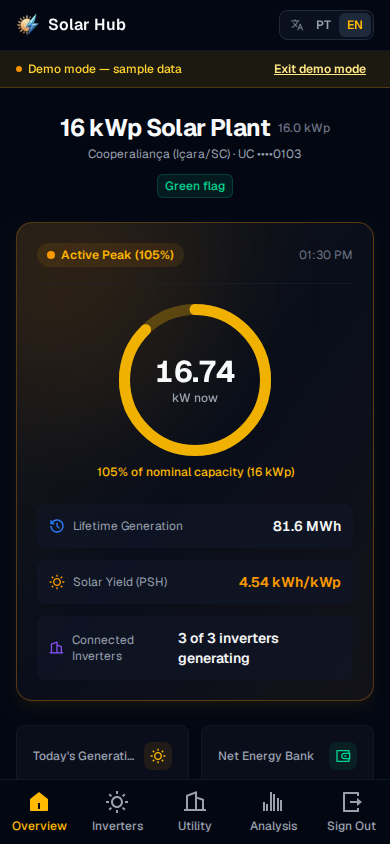
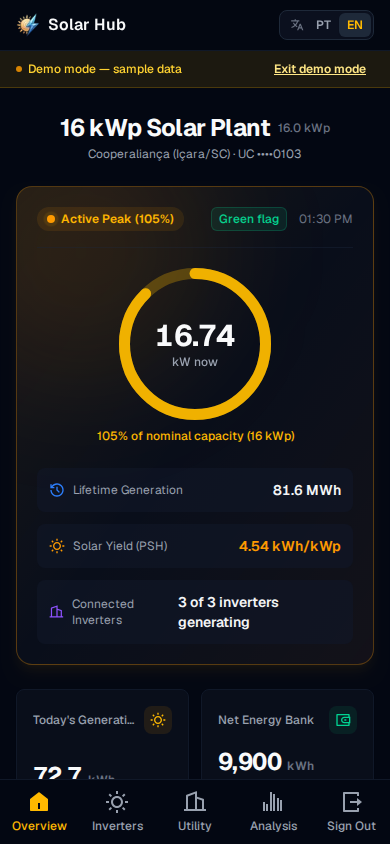
feat(dashboard): show the tariff flag inside the power card (#33)

diff --git a/dashboard/src/app/page.tsx b/dashboard/src/app/page.tsx
@@ -25,6 +25,7 @@ export const dynamic = "force-dynamic";
 
 const STALE_THRESHOLD_MIN = 30;
 
+
 export default async function Home() {
   const [{ t, locale }, ds] = await Promise.all([getServerI18n(), getDataSource()]);
   const [telemetry, utilityData, sunCurve, weatherData] = await Promise.all([
@@ -85,10 +86,6 @@ export default async function Home() {
           <p className="mt-0.5 text-xs text-gray-500 dark:text-gray-400">
             {utilityData?.distribuidora ?? "Cooperaliança"} · UC {maskUcCode(utilityData?.generator_uc)}
           </p>
-        </div>
-
-        <div className="flex items-center gap-2">
-          {bandeira && <Badge variant={tariffFlagVariant(bandeira)}>{translateTariffFlag(bandeira, t)}</Badge>}
         </div>
       </div>
 
@@ -157,15 +154,18 @@ export default async function Home() {
             )}
           </div>
 
-          <span className="text-xs text-gray-400 dark:text-gray-500">
-            {telemetry
-              ? new Date(telemetry.recorded_at).toLocaleTimeString(locale === "pt-BR" ? "pt-BR" : "en-US", {
-                  timeZone: "America/Sao_Paulo",
-                  hour: "2-digit",
-                  minute: "2-digit",
-                })
-              : "—"}
-          </span>
+          <div className="flex items-center gap-3">
+            {bandeira && <Badge variant={tariffFlagVariant(bandeira)}>{translateTariffFlag(bandeira, t)}</Badge>}
+            <span className="text-xs text-gray-400 dark:text-gray-500">
+              {telemetry
+                ? new Date(telemetry.recorded_at).toLocaleTimeString(locale === "pt-BR" ? "pt-BR" : "en-US", {
+                    timeZone: "America/Sao_Paulo",
+                    hour: "2-digit",
+                    minute: "2-digit",
+                  })
+                : "—"}
+            </span>
+          </div>
         </div>
 
         {/* Hero Center: Circular Gauge + Impact Metrics */}
